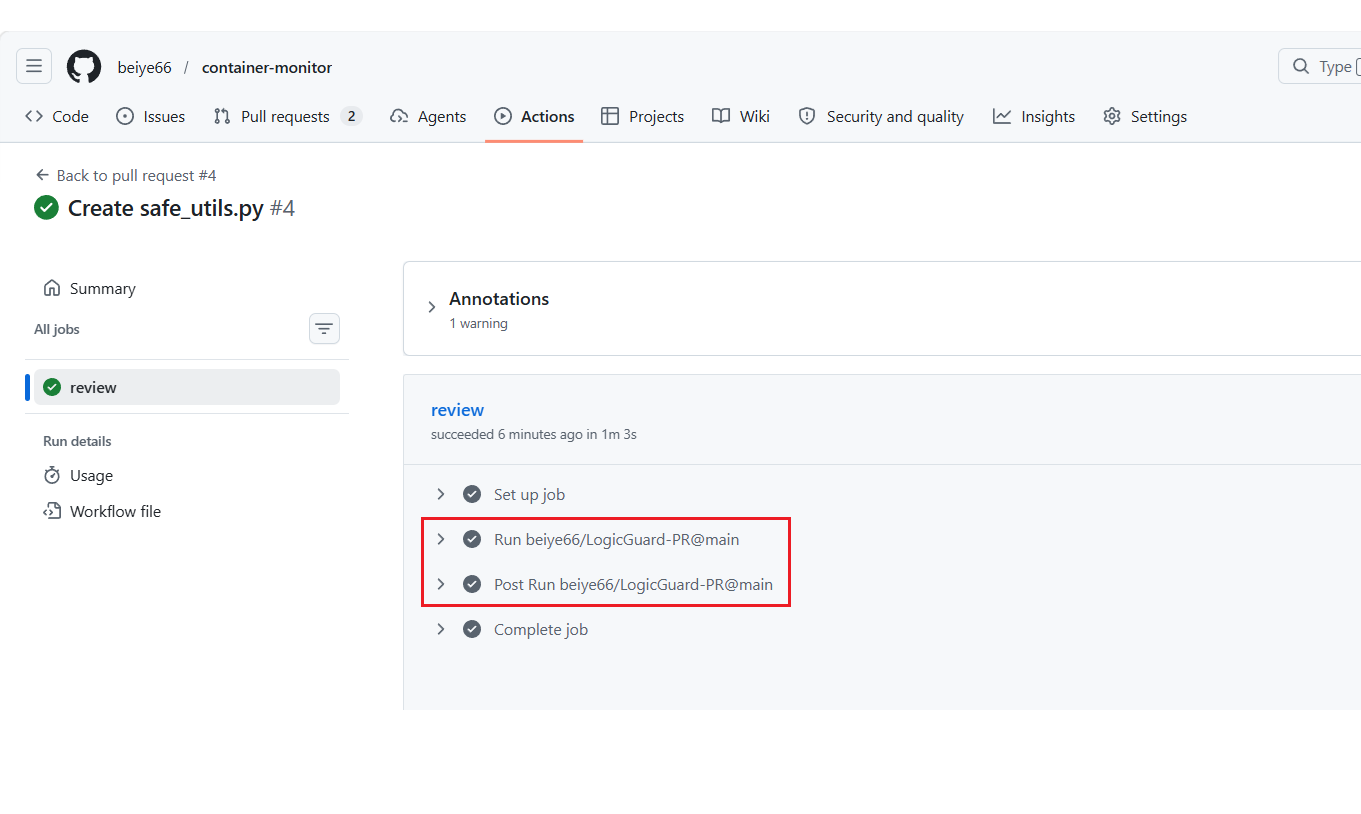
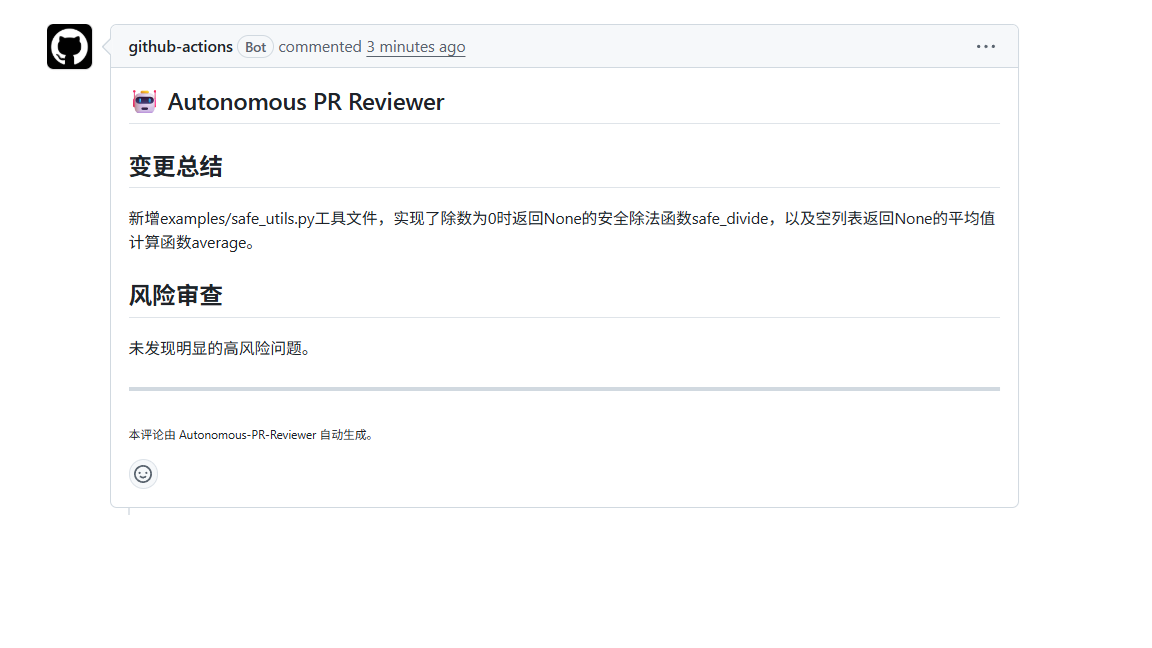
docs: 替换正确的 review-passed 截图，并将 Roadmap 分为已实现/未来展望
- 替换 review-passed.png 为正确的截图。
- Roadmap 重排为「已实现」（多模型路由 / 增量审查 / BYOK / 可复用 Action）
  与「未来展望」（行级评论 Review Comment 等），明确行级评论为后续规划。

diff --git a/README.md b/README.md
@@ -278,9 +278,17 @@ LogicGuard-PR/
 
 ## 🗺️ Roadmap
 
-- [x] **多模型路由**：统一调度 OpenAI / DeepSeek / Gemini（openai 兼容）与 Claude（anthropic SDK），按需选模型。
-- [ ] **行级评论（Review Comment）**：在具体代码行上给出建议（需可靠的行号定位）。
+**已实现：**
+
+- [x] **多模型路由**：统一调度 OpenAI / DeepSeek / Gemini / 豆包（openai 兼容）与 Claude（anthropic SDK），按需选模型。
 - [x] **增量审查**：仅审查相对上次的新增变更，进一步节省 token。
+- [x] **BYOK 自带 Key**：Web 端可使用自己的 API Key 与模型。
+- [x] **可复用 GitHub Action**：他人一行 `uses:` 即可接入自己的仓库。
+
+**未来展望：**
+
+- [ ] **行级评论（Review Comment）**：将风险直接锚定到具体代码行（GitHub Review Comment）。当前出于稳定性优先，采用「整体评论 + 文本标注行号」；行级锚定需 LLM 输出可靠的 diff 位置，计划在行号定位足够稳健后引入。
+- [ ] **审查报告导出 / 团队级配置**：支持导出审查报告，以及组织级统一规则配置。
 
 ---
 